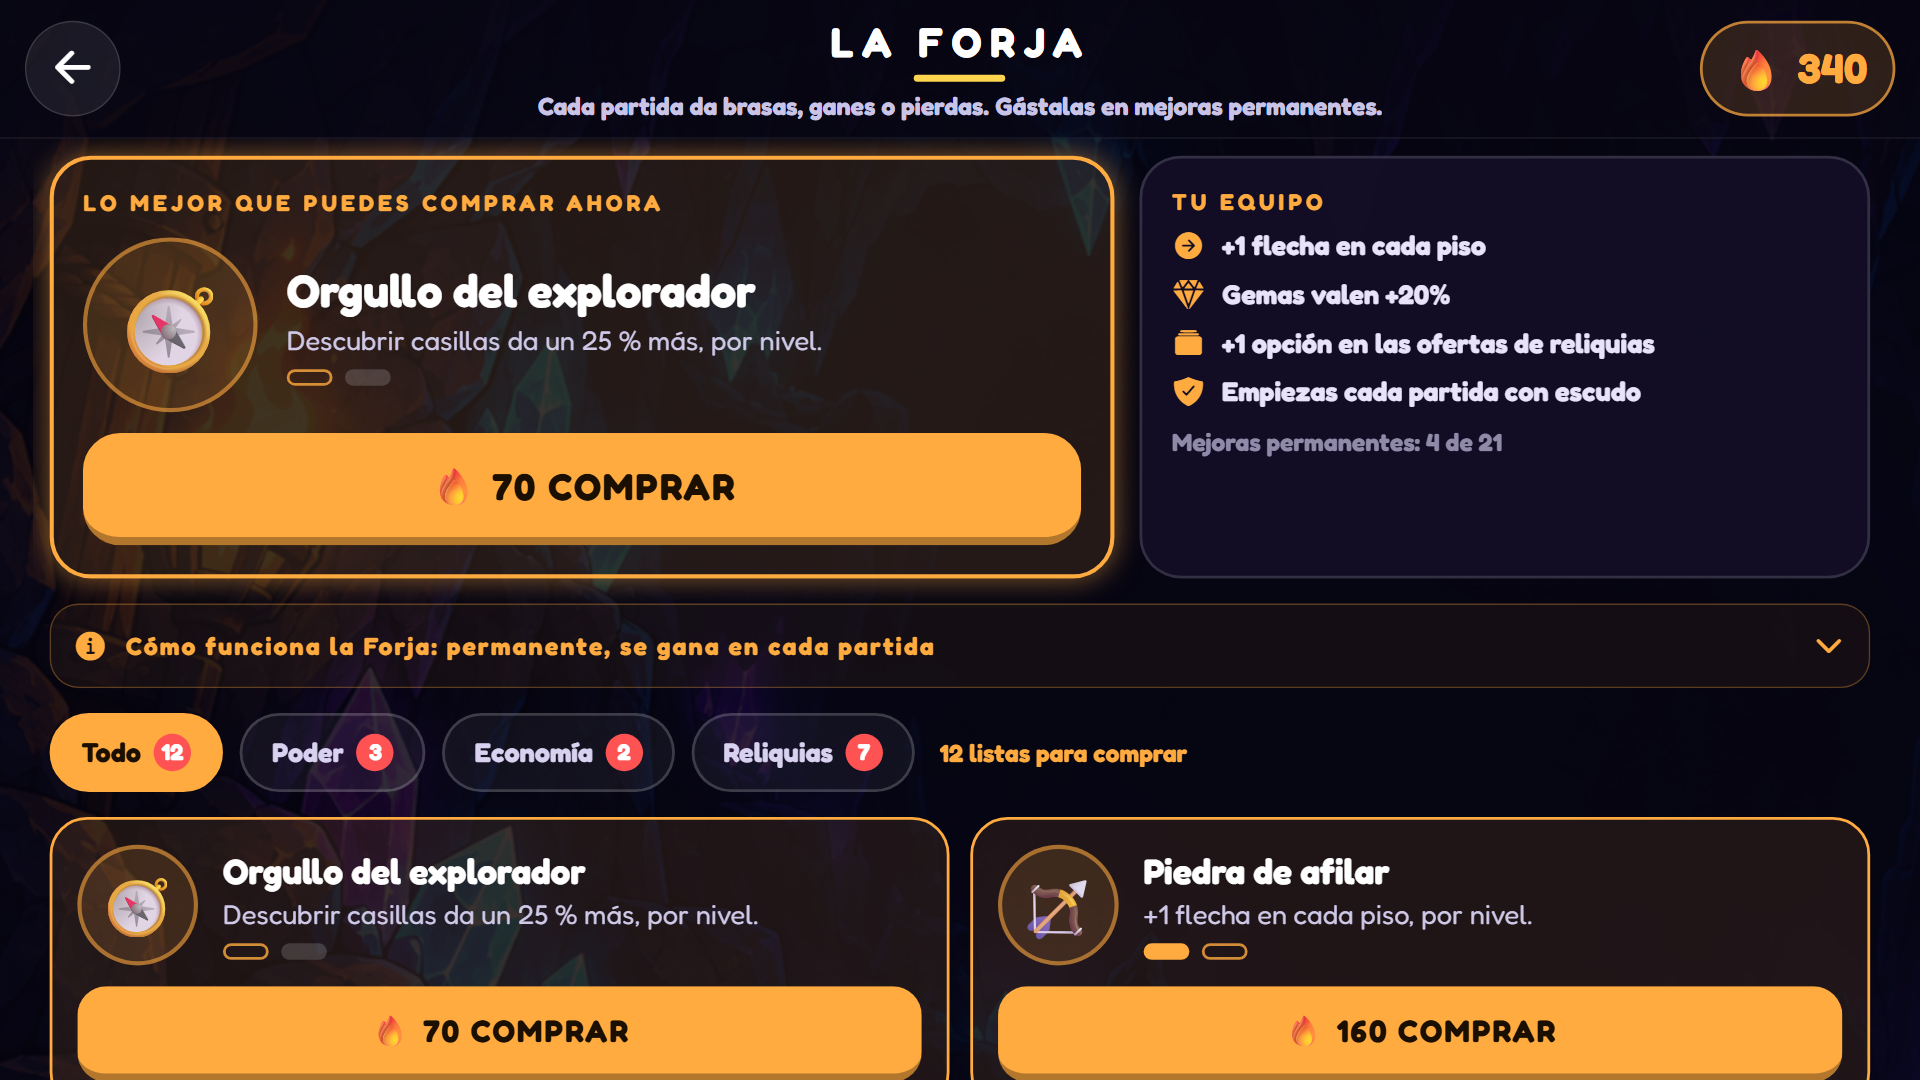
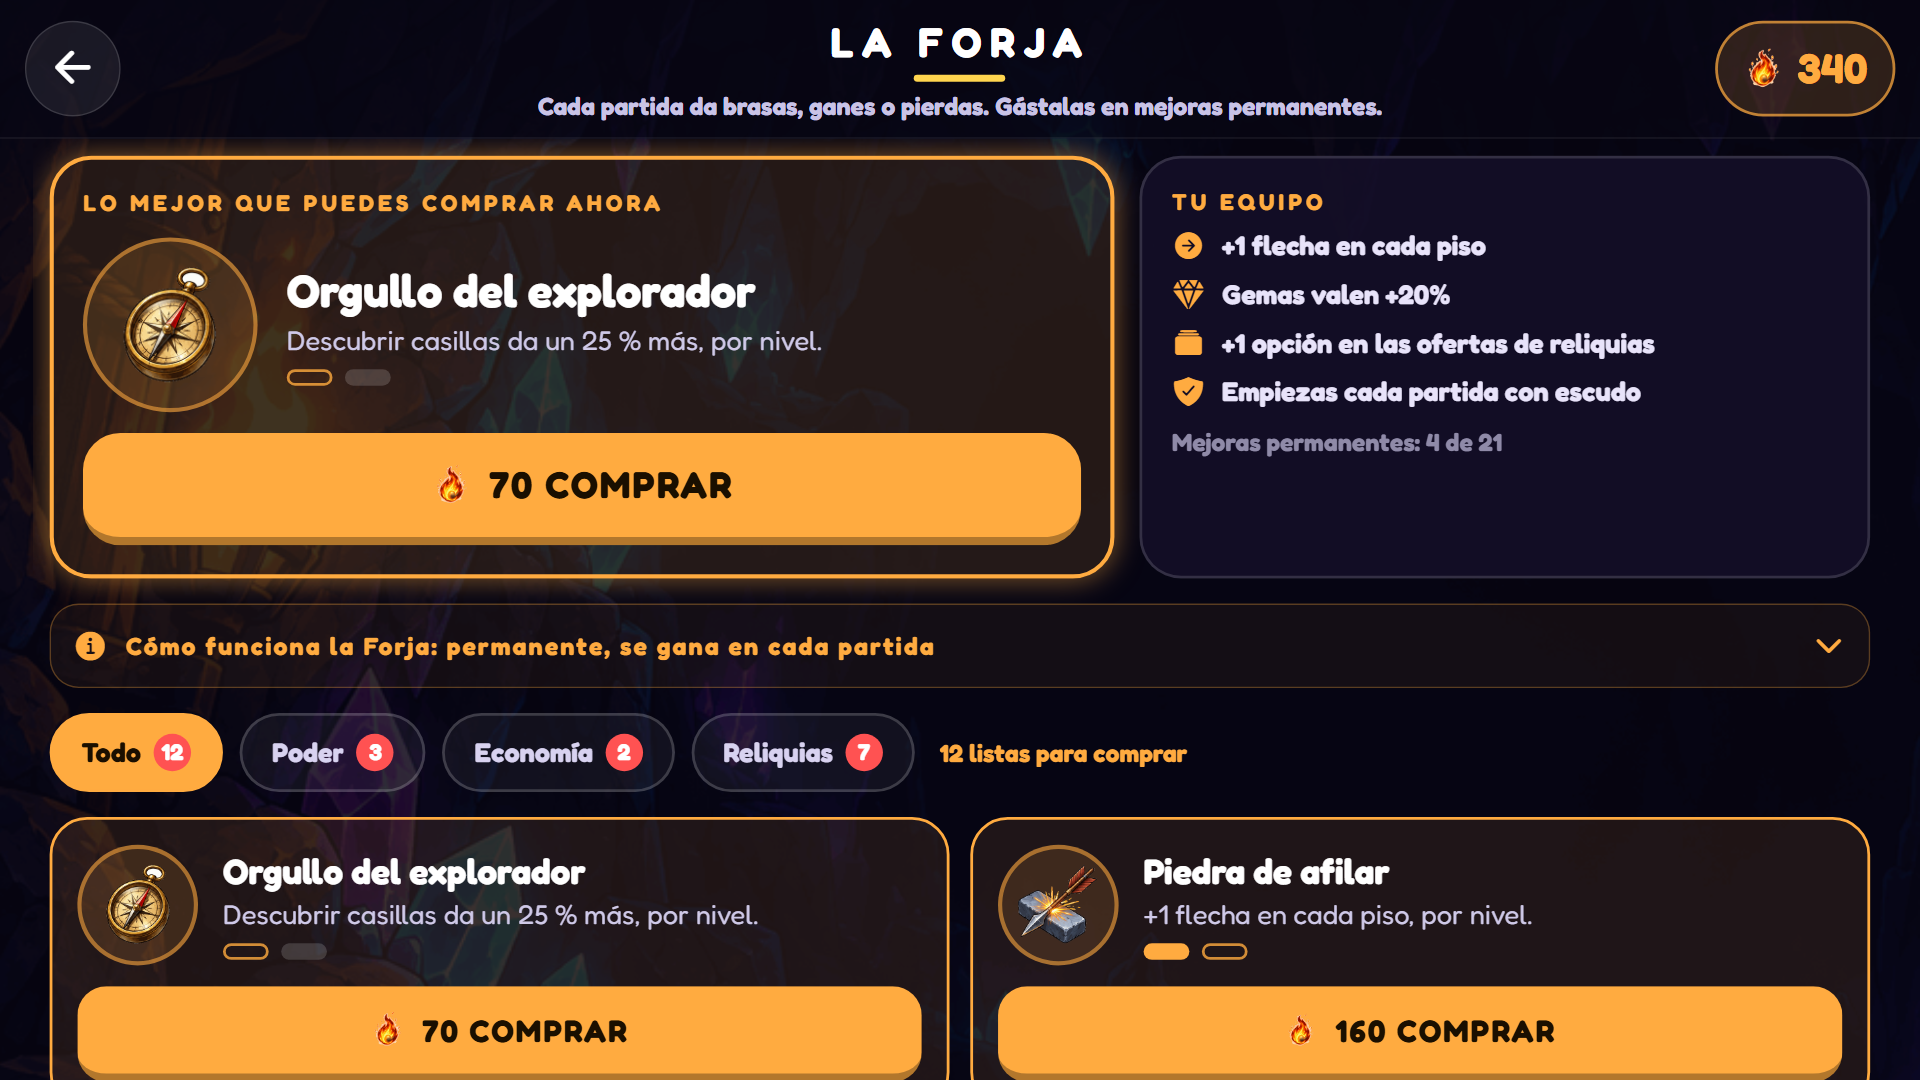
feat(art): painted UI glyphs everywhere and the English store listing
- One Figma sheet cut into 12 painted glyphs (src/ui/glyphArt.ts + GlyphIcon):
  trophy, medal, calendar, swords, padlock, hammer, puzzle, skull, trap sign,
  monster, star, flag; gem/shield/arrows reuse the item art.
- Score popups in play now use painted icons instead of emoji (gem, skull,
  monster, trap, shield, arrows) - the most-seen surface of the game.
- Goal lines, game-over badges (duel, challenge, daily, new best, unlocks),
  the high-score badge, the duel pot and the score tables drop their emojis.
- The daily streak flame is the painted ember now too.
- English store screenshots (docs/release/store/screenshots/en/, 8 shots) and
  the Spanish 03-08 recaptured with the new painted iconography.

diff --git a/src/ui/components/game/GameOverOverlay.tsx b/src/ui/components/game/GameOverOverlay.tsx
@@ -2,6 +2,7 @@ import React, { useEffect, useRef, useState } from 'react';
 import { Animated, ScrollView, StyleSheet, TouchableOpacity, View, useWindowDimensions } from "react-native";
 import Text from "../Text";
 import EmberIcon from "../EmberIcon";
+import GlyphIcon from "../GlyphIcon";
 import { Ionicons } from '@expo/vector-icons';
 
 import type { Character } from '../../../data/characters';
@@ -286,7 +287,7 @@ const GameOverOverlay = ({
       {duelResult ? (
         <View style={styles.duelBox} accessible accessibilityLabel={`${duelResult.headline}. ${duelResult.line}`}>
           <Text style={[styles.duelHeadline, { color: duelResult.color }]} maxFontSizeMultiplier={1.2}>
-            ⚔ {duelResult.headline.toLocaleUpperCase()}
+            <GlyphIcon name="swords" size={16} /> {duelResult.headline.toLocaleUpperCase()}
           </Text>
           <Text style={styles.duelLine} maxFontSizeMultiplier={1.2}>
             {duelResult.line}
@@ -300,13 +301,13 @@ const GameOverOverlay = ({
       ) : null}
       {challengeLabel ? (
         <Text style={styles.daily} maxFontSizeMultiplier={1.2}>
-          🧩 {t('challenge.label', { code: challengeLabel }).toLocaleUpperCase()}
+          <GlyphIcon name="puzzle" size={13} /> {t('challenge.label', { code: challengeLabel }).toLocaleUpperCase()}
         </Text>
       ) : null}
       {dailyLabel && (
         <Text style={styles.daily} maxFontSizeMultiplier={1.2}>
-          📅 {t('over.daily', { date: dailyLabel }).toLocaleUpperCase()}
-          {streak ? `  ·  🔥 ${plural('over.streak', streak)}` : ''}
+          <GlyphIcon name="calendar" size={13} /> {t('over.daily', { date: dailyLabel }).toLocaleUpperCase()}
+          {streak ? <>{'  ·  '}<EmberIcon size={13} /> {plural('over.streak', streak)}</> : ''}
         </Text>
       )}
     </View>
@@ -339,7 +340,7 @@ const GameOverOverlay = ({
         <CountedScore score={score} active={visible} calm={calm} style={styles.scoreValue} />
         {isNewBest ? (
           <Text style={styles.newBest} maxFontSizeMultiplier={1.2}>
-            🏅 {(endless ? t('over.newBestFloor') : dailyLabel ? t('over.newDailyBest') : t('over.newBest')).toLocaleUpperCase()}
+            <GlyphIcon name="medal" size={13} /> {(endless ? t('over.newBestFloor') : dailyLabel ? t('over.newDailyBest') : t('over.newBest')).toLocaleUpperCase()}
           </Text>
         ) : bestScore ? (
           <Text style={styles.best} maxFontSizeMultiplier={1.2}>
@@ -408,7 +409,7 @@ const GameOverOverlay = ({
       {unlockRows.length > 0 && (
         <Reveal delay={1000} calm={calm}>
         <View style={styles.unlockCard} accessibilityLiveRegion="polite">
-          <Text style={styles.unlockTitle} maxFontSizeMultiplier={1.2}>🔓 {t('over.unlock.title').toLocaleUpperCase()}</Text>
+          <Text style={styles.unlockTitle} maxFontSizeMultiplier={1.2}><GlyphIcon name="padlock" size={13} /> {t('over.unlock.title').toLocaleUpperCase()}</Text>
           {unlockRows.map(row => (
             <View key={`${row.kind}${row.skin ? `-${row.skin.hero}-${row.skin.skin}` : ''}`} style={styles.unlockRow}>
               <Text style={styles.unlockText} numberOfLines={2} maxFontSizeMultiplier={1.2}>{row.text}</Text>

diff --git a/src/ui/components/game/ScorePopup.tsx b/src/ui/components/game/ScorePopup.tsx
@@ -1,18 +1,20 @@
 import React, { useEffect, useRef } from 'react';
 import { Animated, Easing, StyleSheet } from "react-native";
 import Text from "../Text";
+import GlyphIcon from "../GlyphIcon";
+import type { GlyphName } from "../../glyphArt";
 import { useT } from '../../../i18n/useT';
 
 export type PopupType = 'coin' | 'kill' | 'trap' | 'shield' | 'ammo' | 'boss' | 'streak';
 
-const POPUP_STYLE: Record<PopupType, { color: string; label: (points: number, shieldText: string) => string }> = {
-  coin:   { color: '#FFD54F', label: p => `💎 +${p}` },
-  kill:   { color: '#FF3B30', label: p => `💀 +${p}` },
-  boss:   { color: '#FF1744', label: p => `👹 +${p}` },
-  trap:   { color: '#FF9800', label: p => `⚠ ${p}` },
-  shield: { color: '#4FC3F7', label: (_p, shieldText) => `🛡 ${shieldText}` },
-  ammo:   { color: '#FF9800', label: p => `🏹 +${p}` },
-  streak: { color: '#FFD54F', label: () => '' },
+const POPUP_STYLE: Record<PopupType, { color: string; glyph: GlyphName | null; label: (points: number, shieldText: string) => string }> = {
+  coin:   { color: '#FFD54F', glyph: 'gem',     label: p => `+${p}` },
+  kill:   { color: '#FF3B30', glyph: 'skull',   label: p => `+${p}` },
+  boss:   { color: '#FF1744', glyph: 'monster', label: p => `+${p}` },
+  trap:   { color: '#FF9800', glyph: 'trap',    label: p => `${p}` },
+  shield: { color: '#4FC3F7', glyph: 'shield',  label: (_p, shieldText) => shieldText },
+  ammo:   { color: '#FF9800', glyph: 'arrows',  label: p => `+${p}` },
+  streak: { color: '#FFD54F', glyph: null,      label: () => '' },
 };
 
 /** Width of the box a popup centres itself in, around its anchor. */
@@ -40,7 +42,7 @@ const ScorePopup = ({ points, type = 'kill', x, y, slot = 0, sub, subColor, popS
   const opacity    = useRef(new Animated.Value(1)).current;
   const scale      = useRef(new Animated.Value(0.6)).current;
   const { t } = useT();
-  const { color, label } = POPUP_STYLE[type];
+  const { color, glyph, label } = POPUP_STYLE[type];
   const text = label(points, t('popup.shield'));
 
   useEffect(() => {
@@ -74,7 +76,7 @@ const ScorePopup = ({ points, type = 'kill', x, y, slot = 0, sub, subColor, popS
       <Animated.View style={[styles.pill, { borderColor: color }]}>
         {text !== '' && (
           <Text style={[styles.text, { color }]} maxFontSizeMultiplier={1.2}>
-            {text}
+            {glyph && <GlyphIcon name={glyph} size={24} />}{glyph ? ' ' : ''}{text}
           </Text>
         )}
         {!!sub && (

diff --git a/src/ui/components/GoalLine.tsx b/src/ui/components/GoalLine.tsx
@@ -1,6 +1,7 @@
 import React from "react";
 import { StyleSheet, View } from "react-native";
 import Text from "./Text";
+import GlyphIcon from "./GlyphIcon";
 import { useT } from "../../i18n/useT";
 import { achievementText, forgeText, heroText } from "../../i18n/keys";
 import type { Goal } from "../../core/stats/goals";
@@ -43,11 +44,11 @@ const GoalLine: React.FC<Props> = ({ goal, highlight = false, small = false, sca
       text = t("goal.achievement", { name: achievementText(t, goal.id, "name"), current: goal.current, target: goal.target });
   }
   const color = highlight ? "#9ee37d" : "#FFD9A8";
-  const icon = goal.kind === "forge" ? "🔨" : goal.kind === "hero" ? "🔓" : "🏆";
+  const icon = goal.kind === "forge" ? "hammer" : goal.kind === "hero" ? "padlock" : ("trophy" as const);
   return (
     <View style={[styles.wrap, align === "center" && { alignItems: "center" }]} accessible accessibilityLabel={text}>
       <Text style={[styles.text, small && styles.small, { color, fontSize: (small ? 12 : 13) * scale }]} numberOfLines={1} adjustsFontSizeToFit maxFontSizeMultiplier={1.2}>
-        {icon} {text}
+        <GlyphIcon name={icon} size={(small ? 11 : 12) * scale} /> {text}
       </Text>
       <View style={[styles.track, highlight && { backgroundColor: "rgba(158,227,125,0.25)" }]}>
         <View style={[styles.fill, { width: `${Math.round(Math.max(0, Math.min(1, goal.progress)) * 100)}%`, backgroundColor: highlight ? "#9ee37d" : "#FFAB40" }]} />

diff --git a/src/screens/DuelScreen.tsx b/src/screens/DuelScreen.tsx
@@ -5,6 +5,7 @@ import { SafeAreaView } from "react-native-safe-area-context";
 import { Ionicons } from "@expo/vector-icons";
 import Text from "../ui/components/Text";
 import EmberIcon from "../ui/components/EmberIcon";
+import GlyphIcon from "../ui/components/GlyphIcon";
 import ScreenHeader from "../ui/components/ScreenHeader";
 import SpriteImage from "../ui/components/SpriteImage";
 import FriendCreateJoin from "../ui/components/friends/FriendCreateJoin";
@@ -274,7 +275,7 @@ const DuelScreen: React.FC<Props> = ({ navigation, route }) => {
                     {myStake > 0 ? (
                       <View style={styles.stakeBox}>
                         <Text style={styles.stakeText} maxFontSizeMultiplier={1.2}><EmberIcon size={13} /> {t("duel.stakeRoom", { n: myStake.toLocaleString() })}</Text>
-                        <Text style={styles.stakeSub} maxFontSizeMultiplier={1.2}>{t("duel.stakeHint", { fee: DUEL_FEE_PERCENT })}{pot > 0 ? `  ·  🏆 ${pot.toLocaleString()}` : ""}</Text>
+                        <Text style={styles.stakeSub} maxFontSizeMultiplier={1.2}>{t("duel.stakeHint", { fee: DUEL_FEE_PERCENT })}{pot > 0 ? <>{"  ·  "}<GlyphIcon name="trophy" size={12} /> {pot.toLocaleString()}</> : ""}</Text>
                       </View>
                     ) : null}
                     {room.full ? <Text style={styles.error}>{t("duel.full")}</Text> : null}

diff --git a/src/ui/glyphArt.ts b/src/ui/glyphArt.ts
@@ -1,0 +1,26 @@
+import type { ImageSourcePropType } from 'react-native';
+
+/**
+ * Painted replacements for the emoji glyphs the UI used to borrow from the system font
+ * (which render differently on every phone and clash with the game's art). One Figma
+ * sheet, cut by scripts/sliceIconGrid.py; gem/shield/arrows reuse the in-game item art.
+ */
+export const GLYPHS = {
+  trophy: require('../assets/sprites/ui/Icon_Trophy.png'),
+  medal: require('../assets/sprites/ui/Icon_Medal.png'),
+  calendar: require('../assets/sprites/ui/Icon_Calendar.png'),
+  swords: require('../assets/sprites/ui/Icon_Swords.png'),
+  padlock: require('../assets/sprites/ui/Icon_Padlock.png'),
+  hammer: require('../assets/sprites/ui/Icon_Hammer.png'),
+  puzzle: require('../assets/sprites/ui/Icon_Puzzle.png'),
+  skull: require('../assets/sprites/ui/Icon_Skull.png'),
+  trap: require('../assets/sprites/ui/Icon_Trap.png'),
+  monster: require('../assets/sprites/ui/Icon_Monster.png'),
+  star: require('../assets/sprites/ui/Icon_Star.png'),
+  flag: require('../assets/sprites/ui/Icon_Flag.png'),
+  gem: require('../assets/sprites/items/Icon_Gem.png'),
+  shield: require('../assets/sprites/items/Icon_Shield.png'),
+  arrows: require('../assets/sprites/items/Icon_Arrows.png'),
+} satisfies Record<string, ImageSourcePropType>;
+
+export type GlyphName = keyof typeof GLYPHS;

diff --git a/src/screens/HighScoresScreen.tsx b/src/screens/HighScoresScreen.tsx
@@ -21,6 +21,7 @@ import { RootStackParamList } from "../navigation/types";
 import { formatTime } from "../shared/utils/formatTime";
 import { useT } from "../i18n/useT";
 import SpriteImage from "../ui/components/SpriteImage";
+import GlyphIcon from "../ui/components/GlyphIcon";
 import ScreenHeader from "../ui/components/ScreenHeader";
 import { EMPTY_STATS, LocalStats } from "../core/stats/runStats";
 import { getLocalStats, peekLocalStats } from "../services/localStats";
@@ -206,7 +207,7 @@ const HighScoresScreen: React.FC<Props> = ({ navigation }) => {
             {mineRow ? `  ·  ${t("scores.you")}` : ""}
           </Text>
           <Text style={styles.sub} numberOfLines={1} maxFontSizeMultiplier={1.2}>
-            {t("scores.floorShort", { n: row.level })}  ·  💎 {Number(row.coins) || 0}  ·  {time}
+            {t("scores.floorShort", { n: row.level })}  ·  <GlyphIcon name="gem" size={11} /> {Number(row.coins) || 0}  ·  {time}
           </Text>
         </View>
         <Text style={[styles.score, medal ? { color: medal } : null]} numberOfLines={1} adjustsFontSizeToFit maxFontSizeMultiplier={1.2}>

diff --git a/src/screens/ChallengeScreen.tsx b/src/screens/ChallengeScreen.tsx
@@ -6,6 +6,7 @@ import * as Clipboard from "expo-clipboard";
 import Text from "../ui/components/Text";
 import ScreenHeader from "../ui/components/ScreenHeader";
 import SpriteImage from "../ui/components/SpriteImage";
+import GlyphIcon from "../ui/components/GlyphIcon";
 import FriendCreateJoin from "../ui/components/friends/FriendCreateJoin";
 import { PopButton, PopupPanel } from "../ui/components/game/popup";
 import { RootStackParamList } from "../navigation/types";
@@ -114,7 +115,7 @@ const ChallengeScreen: React.FC<Props> = ({ navigation, route }) => {
             {mine ? `  ·  ${t("scores.you")}` : ""}
           </Text>
           <Text style={styles.sub} numberOfLines={1} maxFontSizeMultiplier={1.2}>
-            {t("scores.floorShort", { n: row.level })}  ·  💎 {row.coins}  ·  {formatTime(row.time)}
+            {t("scores.floorShort", { n: row.level })}  ·  <GlyphIcon name="gem" size={11} /> {row.coins}  ·  {formatTime(row.time)}
           </Text>
         </View>
         <Text style={styles.score} numberOfLines={1} adjustsFontSizeToFit>

diff --git a/src/ui/components/game/HighScoreEntryModal.tsx b/src/ui/components/game/HighScoreEntryModal.tsx
@@ -7,6 +7,7 @@ import {
   useWindowDimensions,
 } from "react-native";
 import Text from "../Text";
+import GlyphIcon from "../GlyphIcon";
 
 import { formatTime } from '../../../shared/utils/formatTime';
 import { checkName } from '../../../core/leaderboard/validation';
@@ -80,7 +81,7 @@ const HighScoreEntryModal = ({ visible, score, level, totalCoins, time, daily, c
   const summary = (
     <View style={styles.summary}>
       <Text style={styles.badge} maxFontSizeMultiplier={1.3}>
-        🏆 {t(challenge ? 'entry.challenge.badge' : daily ? 'entry.daily.badge' : 'entry.badge').toLocaleUpperCase()}
+        <GlyphIcon name="trophy" size={13} /> {t(challenge ? 'entry.challenge.badge' : daily ? 'entry.daily.badge' : 'entry.badge').toLocaleUpperCase()}
       </Text>
       <Text style={styles.title} accessibilityRole="header" maxFontSizeMultiplier={1.3}>
         {t(challenge ? 'entry.challenge.title' : daily ? 'entry.daily.title' : 'entry.title').toLocaleUpperCase()}

diff --git a/src/ui/preloadImages.ts b/src/ui/preloadImages.ts
@@ -2,6 +2,7 @@ import type { ImageSourcePropType } from 'react-native';
 import characters from '../data/characters';
 import { RELIC_IMAGES } from './relicImages';
 import { FORGE_ICONS } from './forgeArt';
+import { GLYPHS } from './glyphArt';
 import { skinArt } from '../data/skinArt';
 import { equippedSkin } from '../core/skins/ownership';
 import type { LocalStats } from '../core/stats/runStats';
@@ -45,6 +46,7 @@ export function getPreloadImages(stats: LocalStats | null = null): ImageSourcePr
     require('../assets/sprites/items/Icon_Ember.png'),
     require('../assets/sprites/items/Icon_EmberPile.png'),
     ...Object.values(FORGE_ICONS).filter((source): source is NonNullable<typeof source> => source != null),
+    ...Object.values(GLYPHS),
     ...Object.values(RELIC_IMAGES).filter((source): source is NonNullable<typeof source> => source != null),
     ...heroes,
     ...outfits,

diff --git a/src/ui/components/GlyphIcon.tsx b/src/ui/components/GlyphIcon.tsx
@@ -1,0 +1,11 @@
+import React from 'react';
+import type { StyleProp, ImageStyle } from 'react-native';
+import SpriteImage from './SpriteImage';
+import { GLYPHS, type GlyphName } from '../glyphArt';
+
+/** A painted UI glyph, sized to sit inline with text the way the emoji it replaces did. */
+const GlyphIcon = ({ name, size = 16, style }: { name: GlyphName; size?: number; style?: StyleProp<ImageStyle> }) => (
+  <SpriteImage source={GLYPHS[name]} style={[{ width: size, height: size }, style]} resizeMode="contain" accessibilityIgnoresInvertColors />
+);
+
+export default GlyphIcon;

diff --git a/scripts/optimizePngs.py b/scripts/optimizePngs.py
@@ -22,6 +22,7 @@ TARGETS = [
     os.path.join(SPRITES, 'tools'),
     os.path.join(SPRITES, 'items'),
     os.path.join(SPRITES, 'tiles'),
+    os.path.join(SPRITES, 'ui'),
 ]
 # Below this size the palette rewrite is not worth a quality risk.
 MIN_BYTES = 40 * 1024

diff --git a/docs/release/store/screenshots/README.md b/docs/release/store/screenshots/README.md
@@ -14,8 +14,8 @@ Están en el orden recomendado para la ficha: las dos primeras son las que se ve
 | 7 | `07_progress.png` | Mi progreso | Track your progress / Sigue tu progreso |
 | 8 | `08_achievements.png` | Logros | 100+ achievements / Más de 100 logros |
 
-Para la ficha en inglés, vuelve a generarlas con el idioma en inglés: `& .\scripts\screenshots.ps1 -Screens ... -Lang en -Sizes 1280x720 -Scale 1.5`.
-Regenerarlas después de cambiar el aspecto del juego, para que no queden desactualizadas.
+La ficha en inglés está en `en/` con los mismos ocho nombres, generada con las mismas recetas y `-Lang en`.
+Regenerar ambos juegos después de cambiar el aspecto del juego, para que no queden desactualizados.
 
 Parámetros exactos (preset `veteran`, `-Sizes 1280x720 -Scale 1.5`):
 
